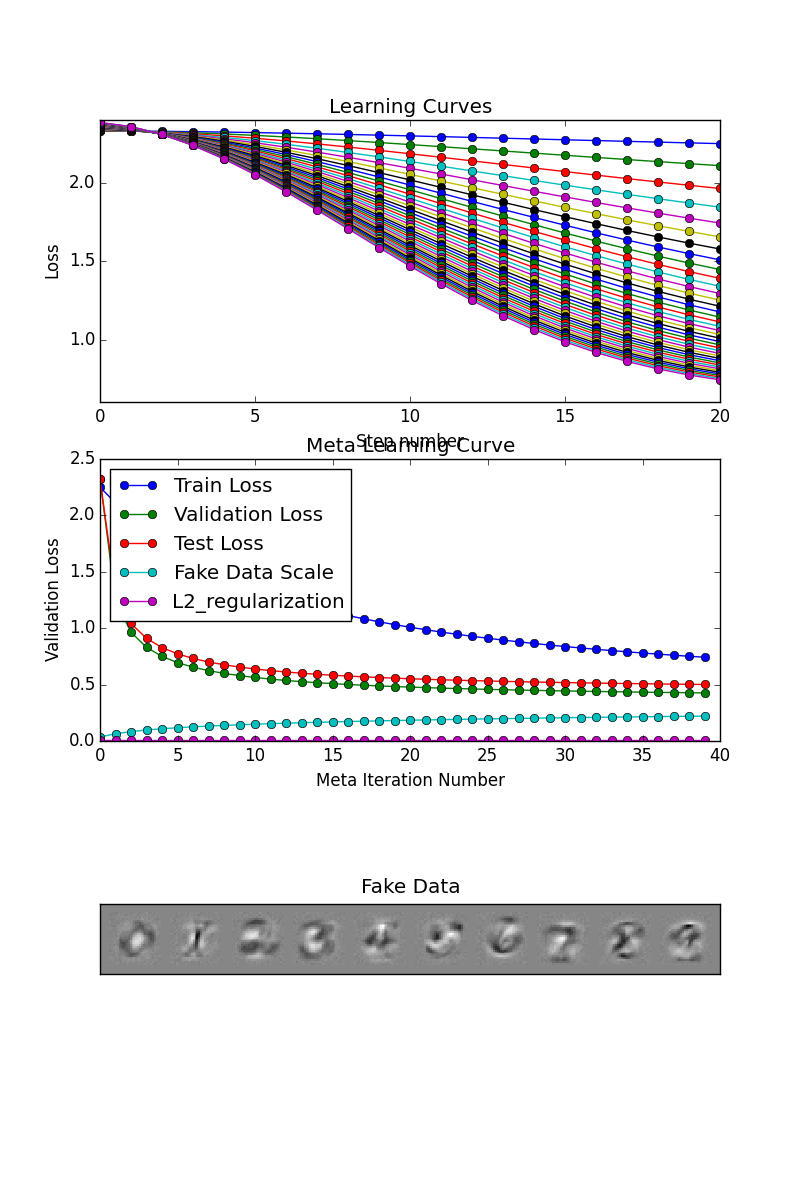
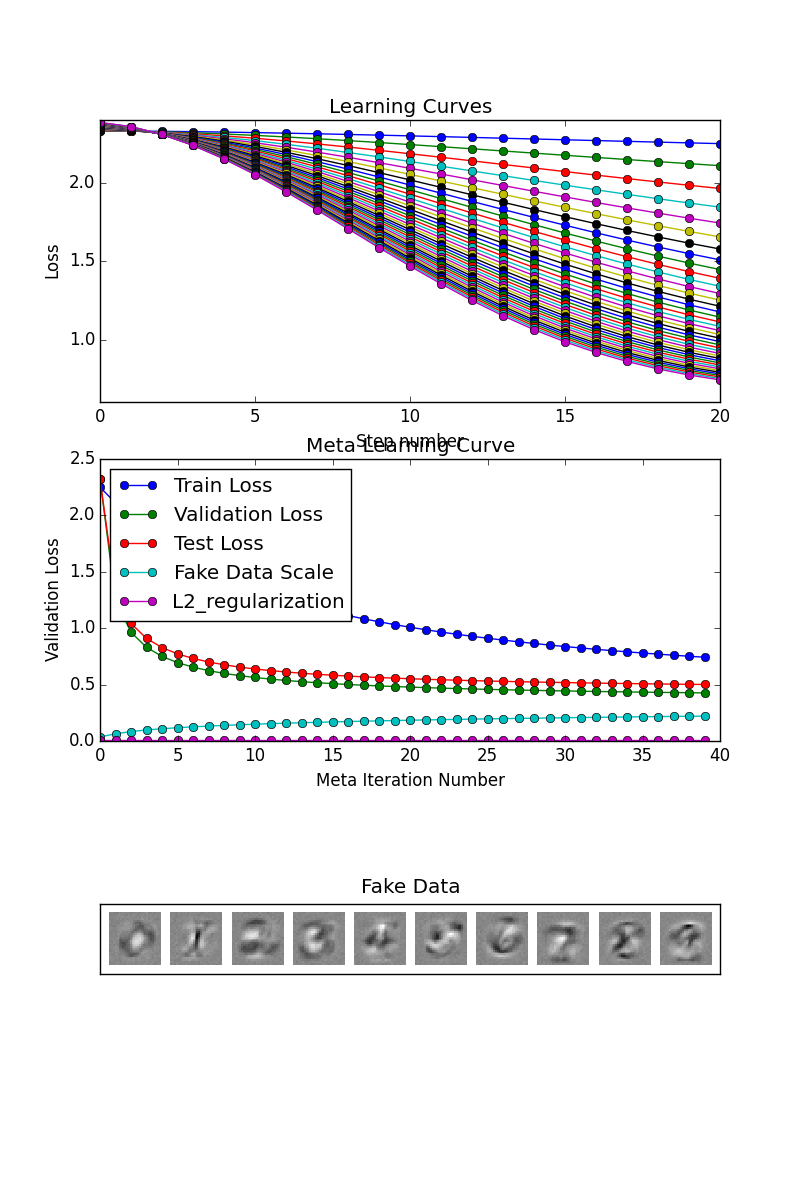
Made fake data figure nicer

Changed region(s): [[0.125, 0.74, 0.9062, 0.8325]]

diff --git a/hypergrad/nn_utils.py b/hypergrad/nn_utils.py
@@ -128,12 +128,15 @@ def nice_layer_name(weight_key):
        for use in plots and legends."""
     return "Layer {num} {name}".format(num=weight_key[1] + 1, name=weight_key[0])
 
-def plot_images(images, ax, ims_per_row=5, padding=5, digit_dimensions=(28,28)):
+def plot_images(images, ax, ims_per_row=5, padding=5, digit_dimensions=(28,28),
+                cmap=matplotlib.cm.binary):
+
     """iamges should be a (N_images x pixels) matrix."""
     N_images = images.shape[0]
     N_rows = np.ceil(float(N_images) / ims_per_row)
-    concat_images = np.zeros(((digit_dimensions[0] + padding) * N_rows + padding,
-                              (digit_dimensions[0] + padding) * ims_per_row + padding))
+    pad_value = np.min(images.ravel())
+    concat_images = np.full(((digit_dimensions[0] + padding) * N_rows + padding,
+                            (digit_dimensions[0] + padding) * ims_per_row + padding), pad_value)
     for i in range(N_images):
         cur_image = np.reshape(images[i, :], digit_dimensions)
         row_ix = i / ims_per_row  # Integer division.
@@ -143,7 +146,7 @@ def plot_images(images, ax, ims_per_row=5, padding=5, digit_dimensions=(28,28)):
         concat_images[row_start: row_start + digit_dimensions[0],
                       col_start: col_start + digit_dimensions[0]] \
             = cur_image
-    ax.matshow(concat_images, cmap = matplotlib.cm.binary)
+    ax.matshow(concat_images, cmap=cmap)
     plt.xticks(np.array([]))
     plt.yticks(np.array([]))
 

diff --git a/experiments/Feb_3_training_schedules/6_long_whetlab_init/experiment.py b/experiments/Feb_3_training_schedules/6_long_whetlab_init/experiment.py
@@ -125,9 +125,12 @@ def plot():
             results['learning_curves'][0]['learning_curve'],  '-', label='BayesOpt hypers')
     ax.set_xlabel('Training iteration')
     ax.set_ylabel('Training loss')
+    plt.show()
     fig.set_size_inches((2.5,2.5))
     ax.legend(numpoints=1, loc=1, frameon=False, prop={'size':'10'})
+
     plt.savefig('learning_curves_paper.pdf', pad_inches=0.05, bbox_inches='tight')
+
 
     fig.clf()
     ax = fig.add_subplot(111)
@@ -144,7 +147,7 @@ def plot():
     plt.savefig('meta_learning_curve_paper.pdf', pad_inches=0.05, bbox_inches='tight')
 
 if __name__ == '__main__':
-    results = run()
-    with open('results.pkl', 'w') as f:
-        pickle.dump(results, f)
+    #results = run()
+    #with open('results.pkl', 'w') as f:
+    #    pickle.dump(results, f)
     plot()

diff --git a/experiments/Jan_19_optimize_data/4/experiment.py b/experiments/Jan_19_optimize_data/4/experiment.py
@@ -108,12 +108,12 @@ def plot():
     # Fake data
     fig = plt.figure(0)
     fig.clf()
-    ax = fig.add_subplot(1, 1, 1)
+    ax = plt.Axes(fig, [0., 0., 1., 1.])
+    ax.set_axis_off()
+    fig.add_axes(ax)
     images = all_fakedata[-1]
-    plot_mnist_images(images, ax, ims_per_row=10)
-    fig.set_size_inches((8,12))
-    plt.savefig('fake_data.pdf', pad_inches=0.05, bbox_inches='tight')
-
+    plot_mnist_images(images, ax, ims_per_row=5, padding=2)
+    plt.savefig('fake_data.pdf', bbox_inches='tight')
 
     fig = plt.figure(0)
     fig.clf()
